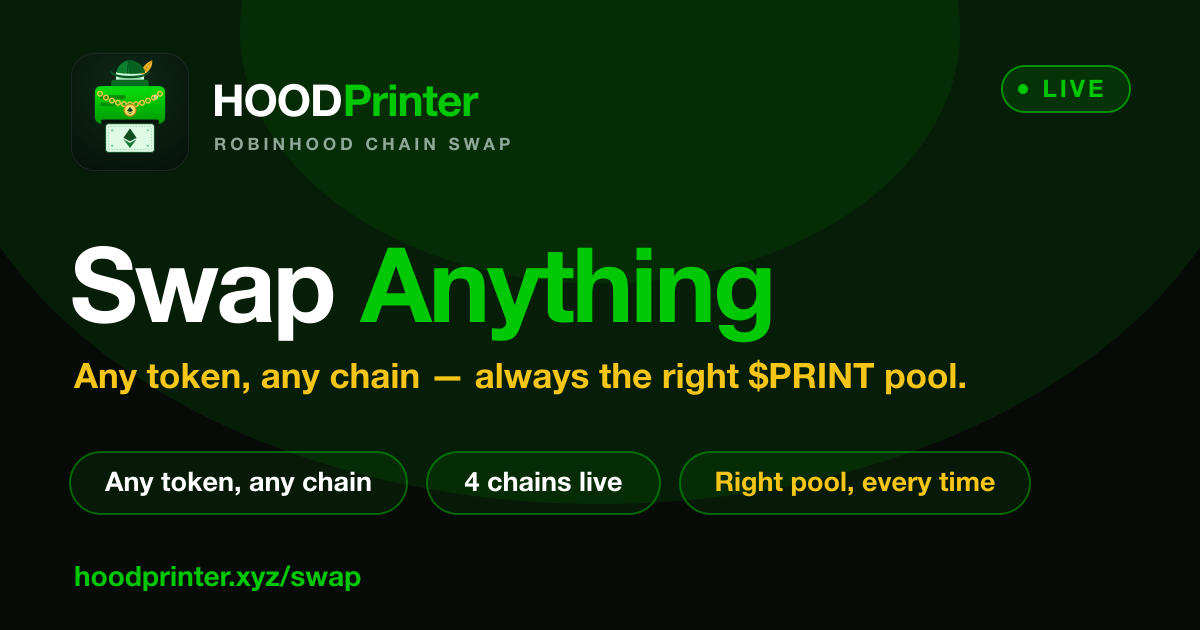
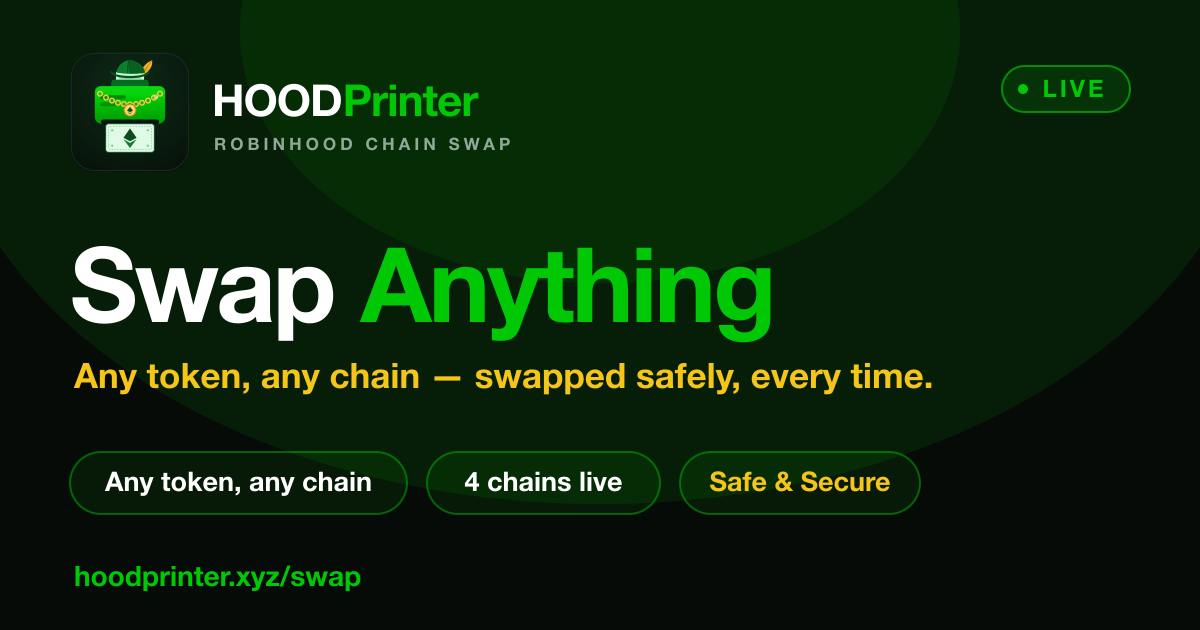
Swap: OG image drops $PRINT-pool framing, 'Safely Routed' -> 'Safe & Secure'
Dylan: the social share image says 'right $PRINT pool' but it's a swap
for everything, not just $PRINT -- subhead + third chip reworded to
generic 'swapped safely, every time' / 'Safe & Secure' copy. Same
'Safely Routed' -> 'Safe & Secure' swap applied to the og:title/
twitter:title text for consistency.

diff --git a/app/swap/page.tsx b/app/swap/page.tsx
@@ -48,7 +48,7 @@ export const metadata: Metadata = {
     "$PRINT",
   ],
   openGraph: {
-    title: "PRINT Swap — Swap & Bridge Any Token, Any Chain, Safely Routed",
+    title: "PRINT Swap — Swap & Bridge Any Token, Any Chain, Safe & Secure",
     description,
     url: "https://www.hoodprinter.xyz/swap",
     siteName: siteConfig.name,
@@ -67,7 +67,7 @@ export const metadata: Metadata = {
     card: "summary_large_image",
     site: "@HOODPrinterxyz",
     creator: "@HOODPrinterxyz",
-    title: "PRINT Swap — Swap & Bridge Any Token, Any Chain, Safely Routed",
+    title: "PRINT Swap — Swap & Bridge Any Token, Any Chain, Safe & Secure",
     description,
     images: ["/brand/og-swap.png"],
   },
